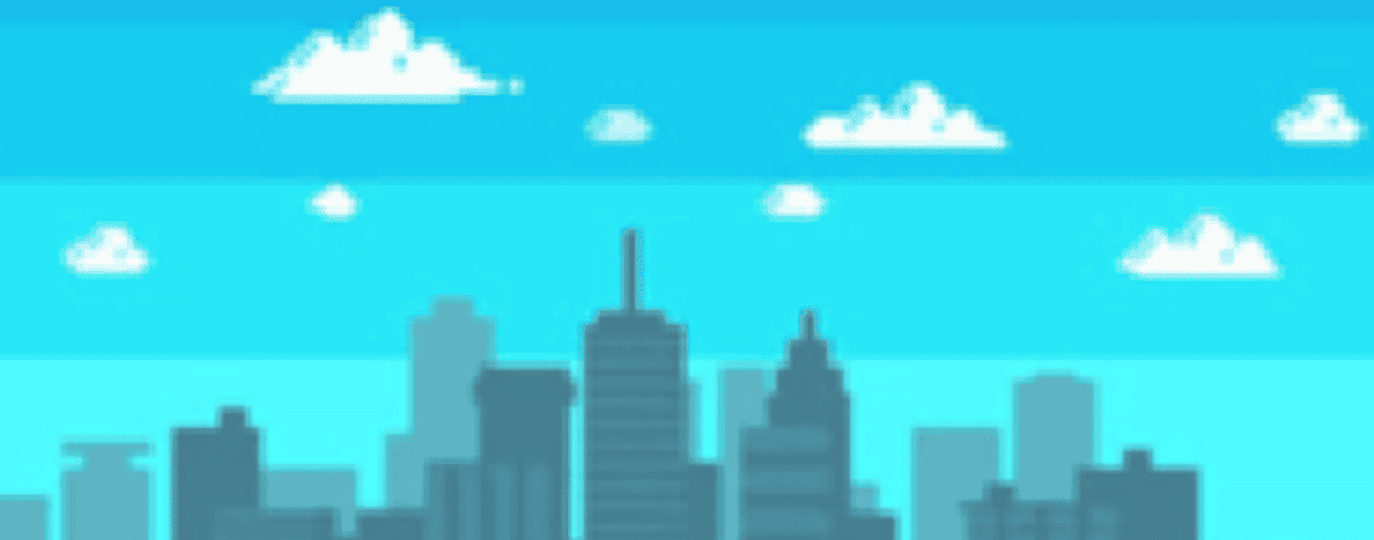
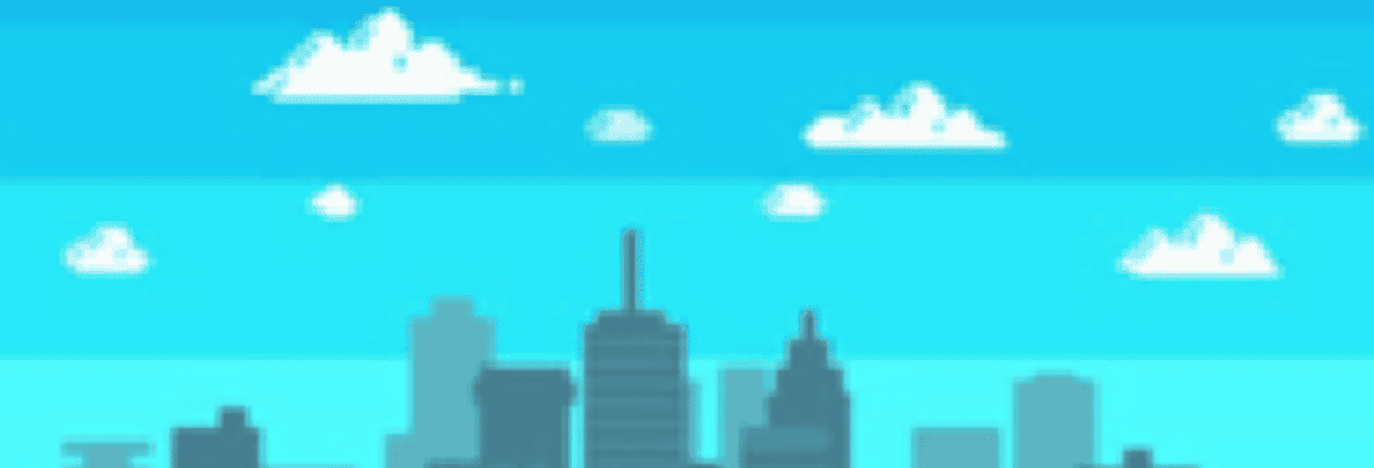
tree

diff --git a/core/src/main/java/io/github/testcar/Main.java b/core/src/main/java/io/github/testcar/Main.java
@@ -22,6 +22,7 @@ import com.badlogic.gdx.utils.Timer;
 import com.badlogic.gdx.utils.viewport.FitViewport;
 import com.badlogic.gdx.utils.viewport.ScreenViewport;
 import com.badlogic.gdx.Preferences;
+import com.badlogic.gdx.utils.viewport.Viewport;
 
 import java.awt.*;
 
@@ -58,7 +59,10 @@ public class Main implements ApplicationListener {
     float shadowSpeed;
     int u;
     Texture buildingTexture;
+    Texture TreeTexture;
+    Texture TreeTexture2;
     Sprite buildingSprite;
+    Sprite TreeSprite;
     enum GameState {
         RUNNING, PAUSED, GAMEOVER,MAINMENU
     }
@@ -67,21 +71,29 @@ public class Main implements ApplicationListener {
     private static final String HIGH_SCORE_KEY = "high_score";
     private static int highScore=0;
     int flag=0;
+    float treeY;
+    float treeX;
+    float treeX2;
+    float treeSpeed;
+    float scale2;
 
     @Override
     public void create() {
         backgroundTexture = new Texture("pixil-frame-0 (2).png");
         PlayerCarTexture = new Texture("pop.png");
         buildingTexture=new Texture ("Building.png");
+        TreeTexture=new Texture("Tree.png");
+        TreeTexture2=new Texture("Tree.png");
         dropTexture = new Texture("drop.png");
         dropSound = Gdx.audio.newSound(Gdx.files.internal("drop.mp3"));
         music = Gdx.audio.newMusic(Gdx.files.internal("music.mp3"));
         shadowTexture=new Texture("resized_black_white_alternate_lines_shadow.png");
         shadowTexture2=new Texture("resized_black_white_alternate_lines_shadow.png");
         spriteBatch = new SpriteBatch();
-        viewport = new FitViewport(15, 10);
+        viewport = new FitViewport(35, 20);
         backgroundSprite=new Sprite(backgroundTexture);
         backgroundSprite.setSize(viewport.getWorldWidth(), viewport.getWorldHeight());
+
         backgroundSprite2=new Sprite(backgroundTexture);
         backgroundSprite2.setSize(viewport.getWorldWidth(), viewport.getWorldHeight());
         backgroundSprite2.setY(0);
@@ -113,6 +125,11 @@ public class Main implements ApplicationListener {
         shadowSpeed = 4f;  // Speed of the shadow movement (in pixels per second)
         u=1;
         buildingSprite = new Sprite(buildingTexture);
+        treeY = viewport.getWorldHeight()*15/32;
+        treeX = viewport.getWorldWidth()/2;
+        treeX2 = viewport.getWorldWidth()/2;
+        treeSpeed = 15f;  // Adjust the speed as necessary
+        scale2 = 0.0f;
     }
 
     @Override
@@ -308,6 +325,7 @@ public class Main implements ApplicationListener {
         shadowY += -shadowSpeed * delta;
         shadowY2 += -shadowSpeed * delta;
 
+
         float shadowHeight = viewport.getWorldHeight() / 2;  // Height of each shadow texture
 
 // Draw the shadow textures
@@ -328,6 +346,31 @@ public class Main implements ApplicationListener {
 
         // Reset color to white for other drawing
         spriteBatch.setColor(1f, 1f, 1f, 1f);
+
+        // Update the tree's position (moving it downwards)
+        treeY -= treeSpeed * delta;
+        treeX -= treeSpeed *delta;
+        treeX2 += treeSpeed*delta;
+        float scale = 0.01f;  // Scale factor
+
+
+// Check if the tree is outside the bottom of the screen
+        if (treeY + (TreeTexture.getHeight())*scale< 0) {
+            // Reset the tree's position to the top
+            treeY = viewport.getWorldHeight()*15/32;
+            treeX= viewport.getWorldWidth()/2;
+            treeX2= viewport.getWorldWidth()/2;
+            scale2=0;
+
+        }
+// Draw the tree texture at its current position
+        scale2=scale2+0.0005f;
+        float treeWidth = TreeTexture.getWidth() * (scale2);
+        float treeHeight = TreeTexture.getHeight() * scale2;
+
+        spriteBatch.draw(TreeTexture, treeX, treeY, treeWidth, treeHeight);
+        spriteBatch.draw(TreeTexture2, treeX2, treeY, treeWidth, treeHeight);
+
         // Draw player car
 
         PlayerCarSprite.draw(spriteBatch);
@@ -340,7 +383,6 @@ public class Main implements ApplicationListener {
         }
         float xPosition = 0;  // Starting from the left edge
         float yPosition = viewport.getWorldHeight() - buildingHeight;  // Position it at the top
-        spriteBatch.draw(buildingTexture, xPosition, yPosition, buildingWidth, buildingHeight);
 
         // Draw the score at the top-left corner
         yourfont.setColor(Color.WHITE);
